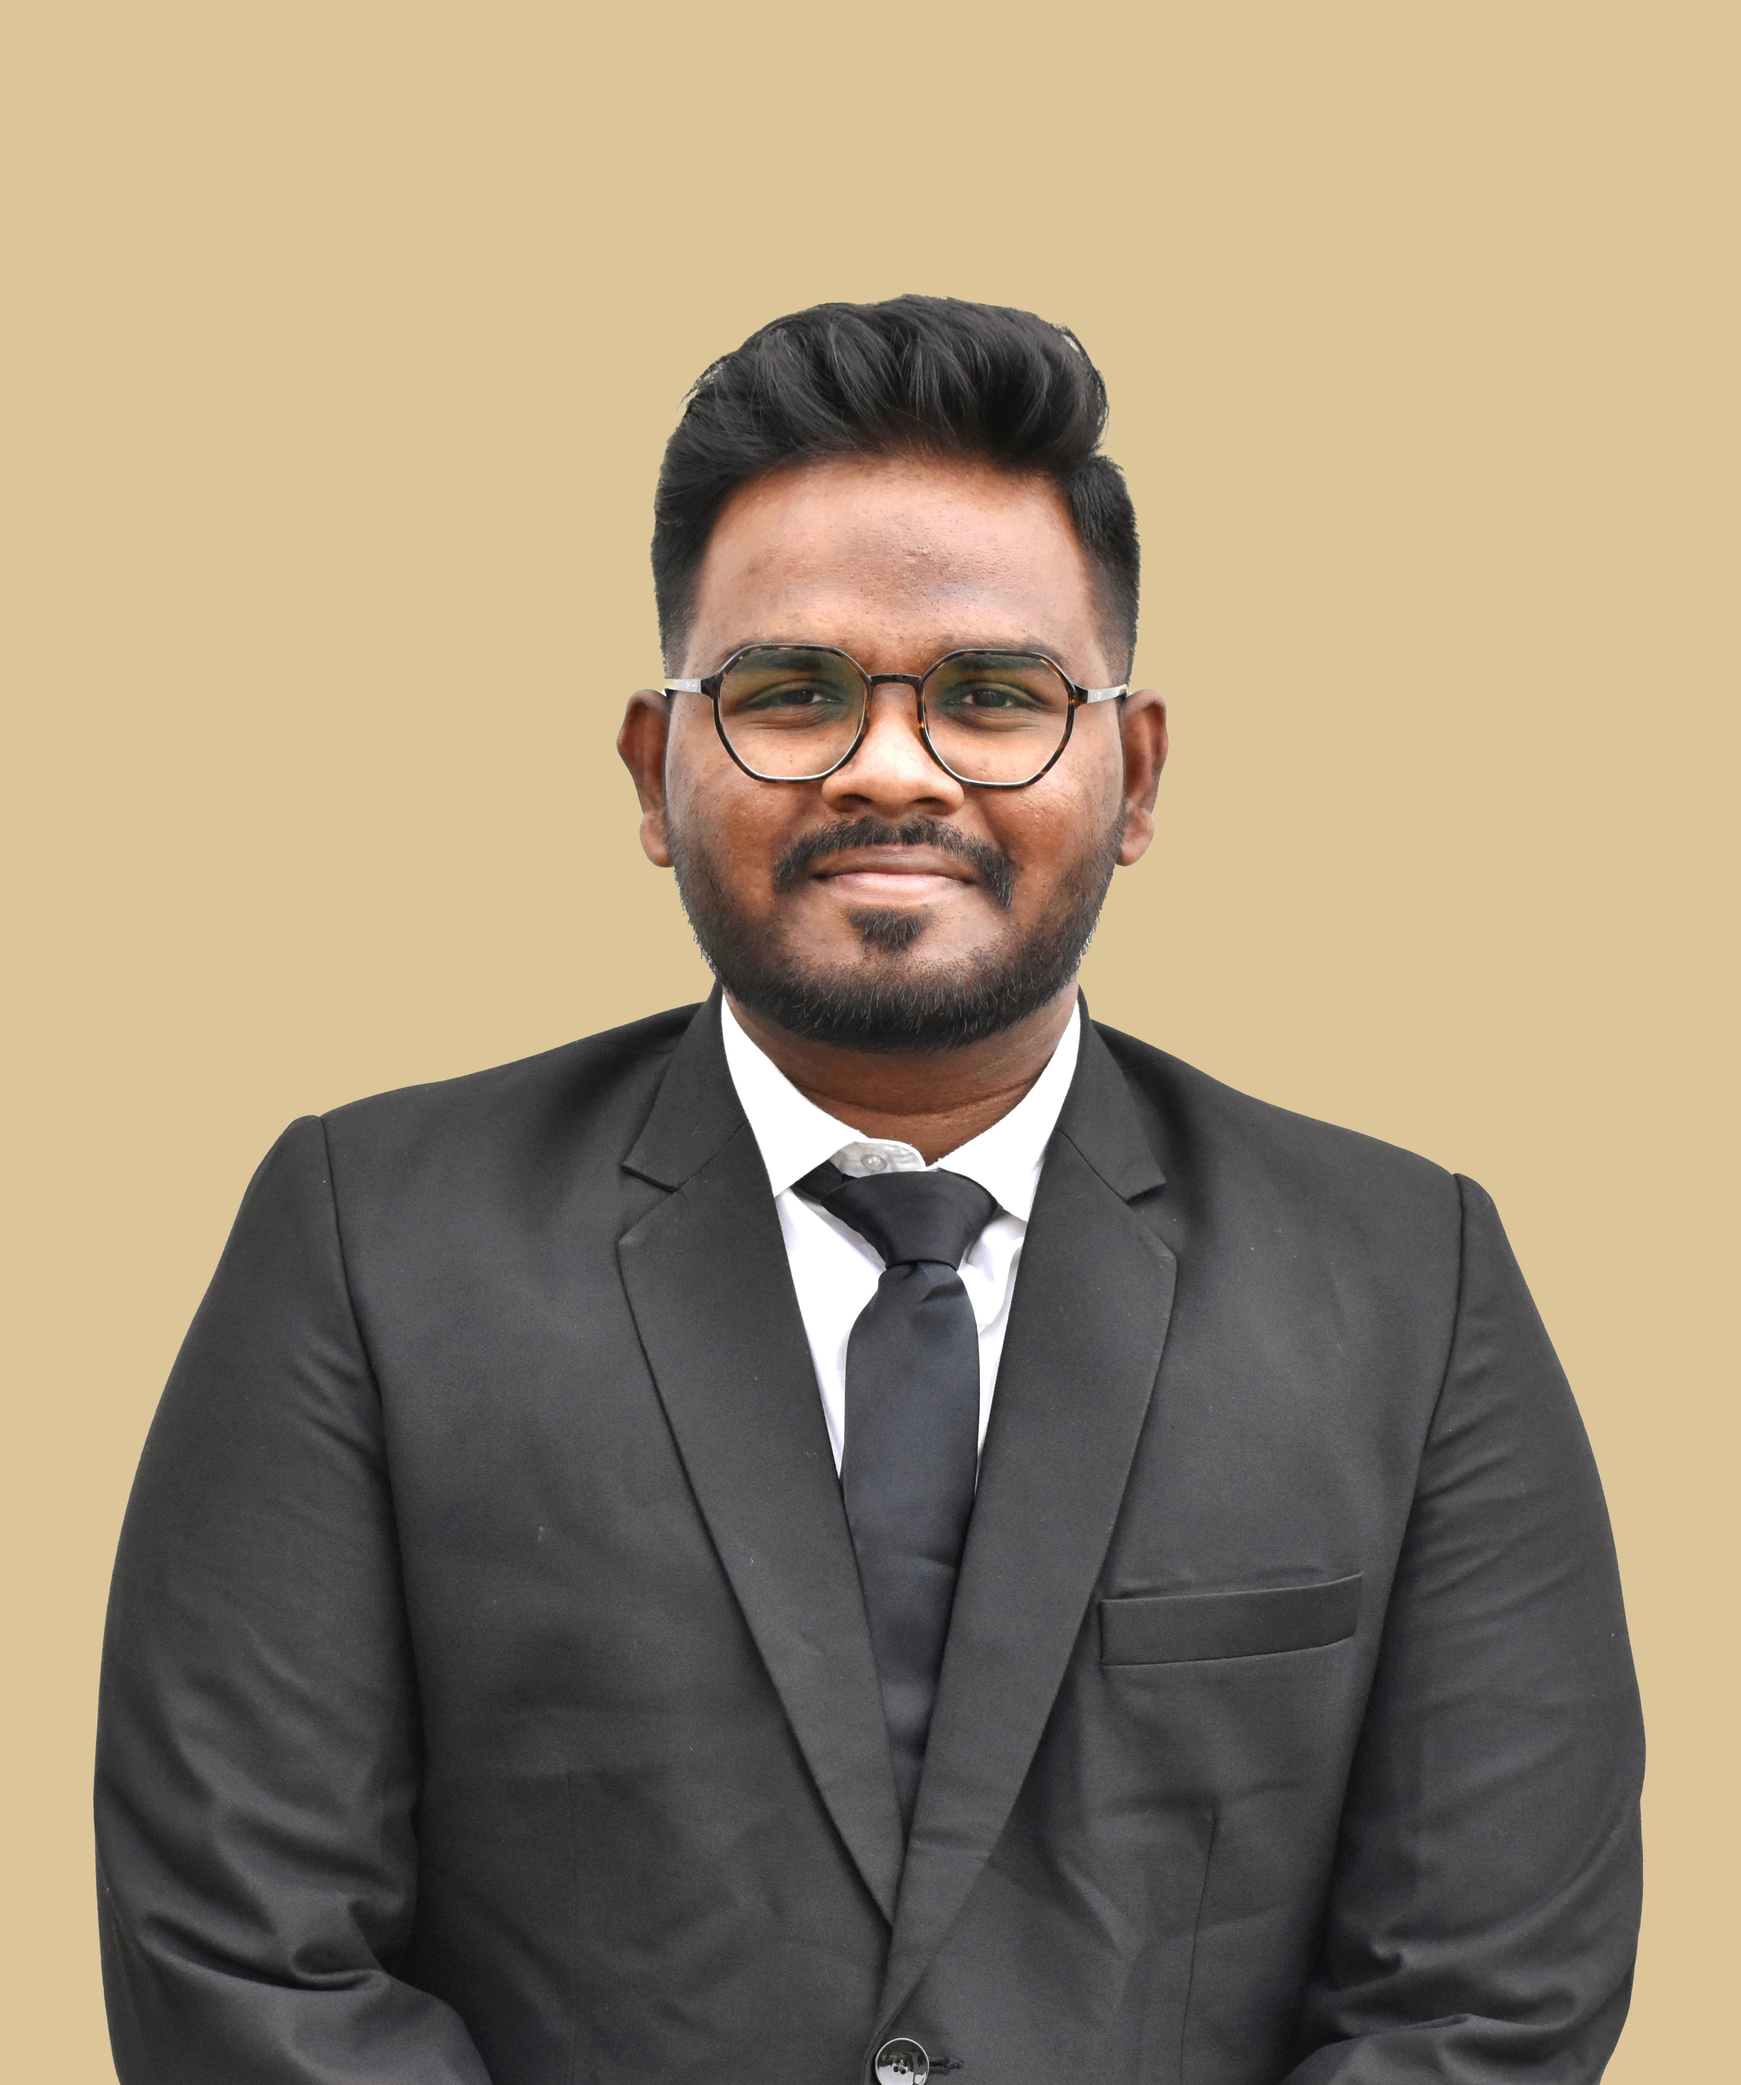
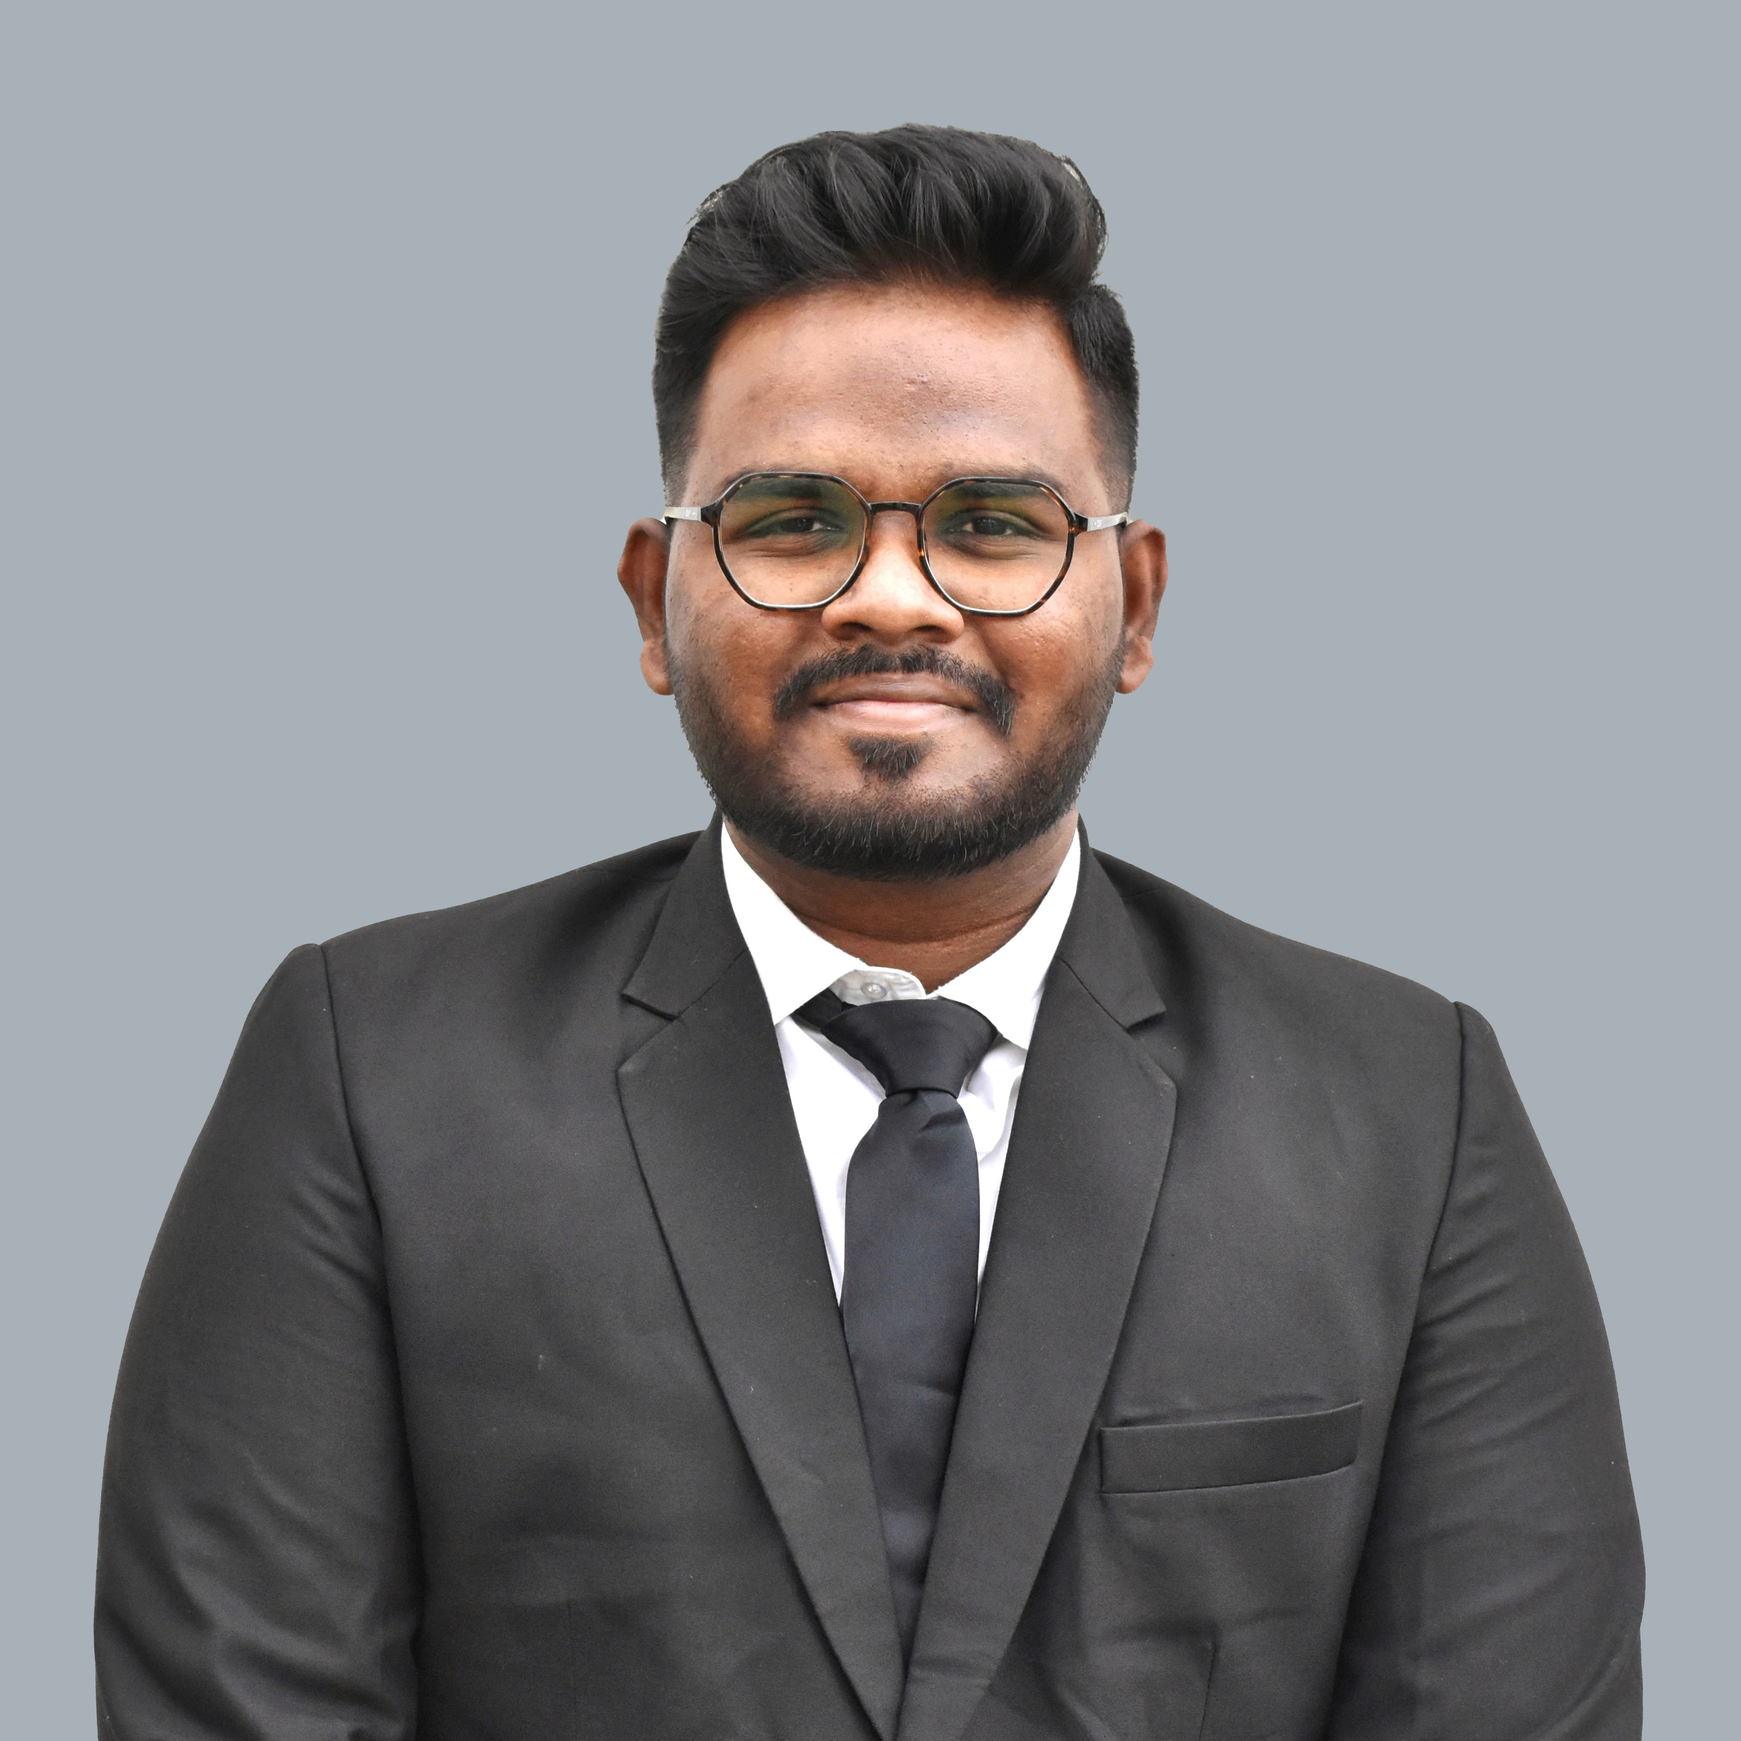
update images,linkedin page

diff --git a/about.html b/about.html
@@ -339,7 +339,7 @@
       <div class="footer-links">
         <a href="privacypolicy.html">Privacy</a>
         <a href="terms.html">Terms</a>
-        <a href="#">LinkedIn</a>
+        <a href="https://www.linkedin.com/company/neokomet/" target="_blank" rel="noopener noreferrer">LinkedIn</a>
       </div>
 
     </div>

diff --git a/index.html b/index.html
@@ -623,7 +623,7 @@
       <div class="footer-links">
         <a href="privacypolicy.html">Privacy</a>
         <a href="terms.html">Terms</a>
-        <a href="#">LinkedIn</a>
+        <a href="https://www.linkedin.com/company/neokomet/" target="_blank" rel="noopener noreferrer">LinkedIn</a>
       </div>
 
     </div>

diff --git a/privacypolicy.html b/privacypolicy.html
@@ -847,7 +847,7 @@
       <div class="footer-links">
         <a href="privacypolicy.html">Privacy</a>
         <a href="terms.html">Terms</a>
-        <a href="#">LinkedIn</a>
+        <a href="https://www.linkedin.com/company/neokomet/" target="_blank" rel="noopener noreferrer">LinkedIn</a>
       </div>
 
     </div>

diff --git a/terms.html b/terms.html
@@ -948,7 +948,7 @@
       <div class="footer-links">
         <a href="privacypolicy.html">Privacy</a>
         <a href="terms.html">Terms</a>
-        <a href="#">LinkedIn</a>
+        <a href="https://www.linkedin.com/company/neokomet/" target="_blank" rel="noopener noreferrer">LinkedIn</a>
       </div>
 
     </div>
